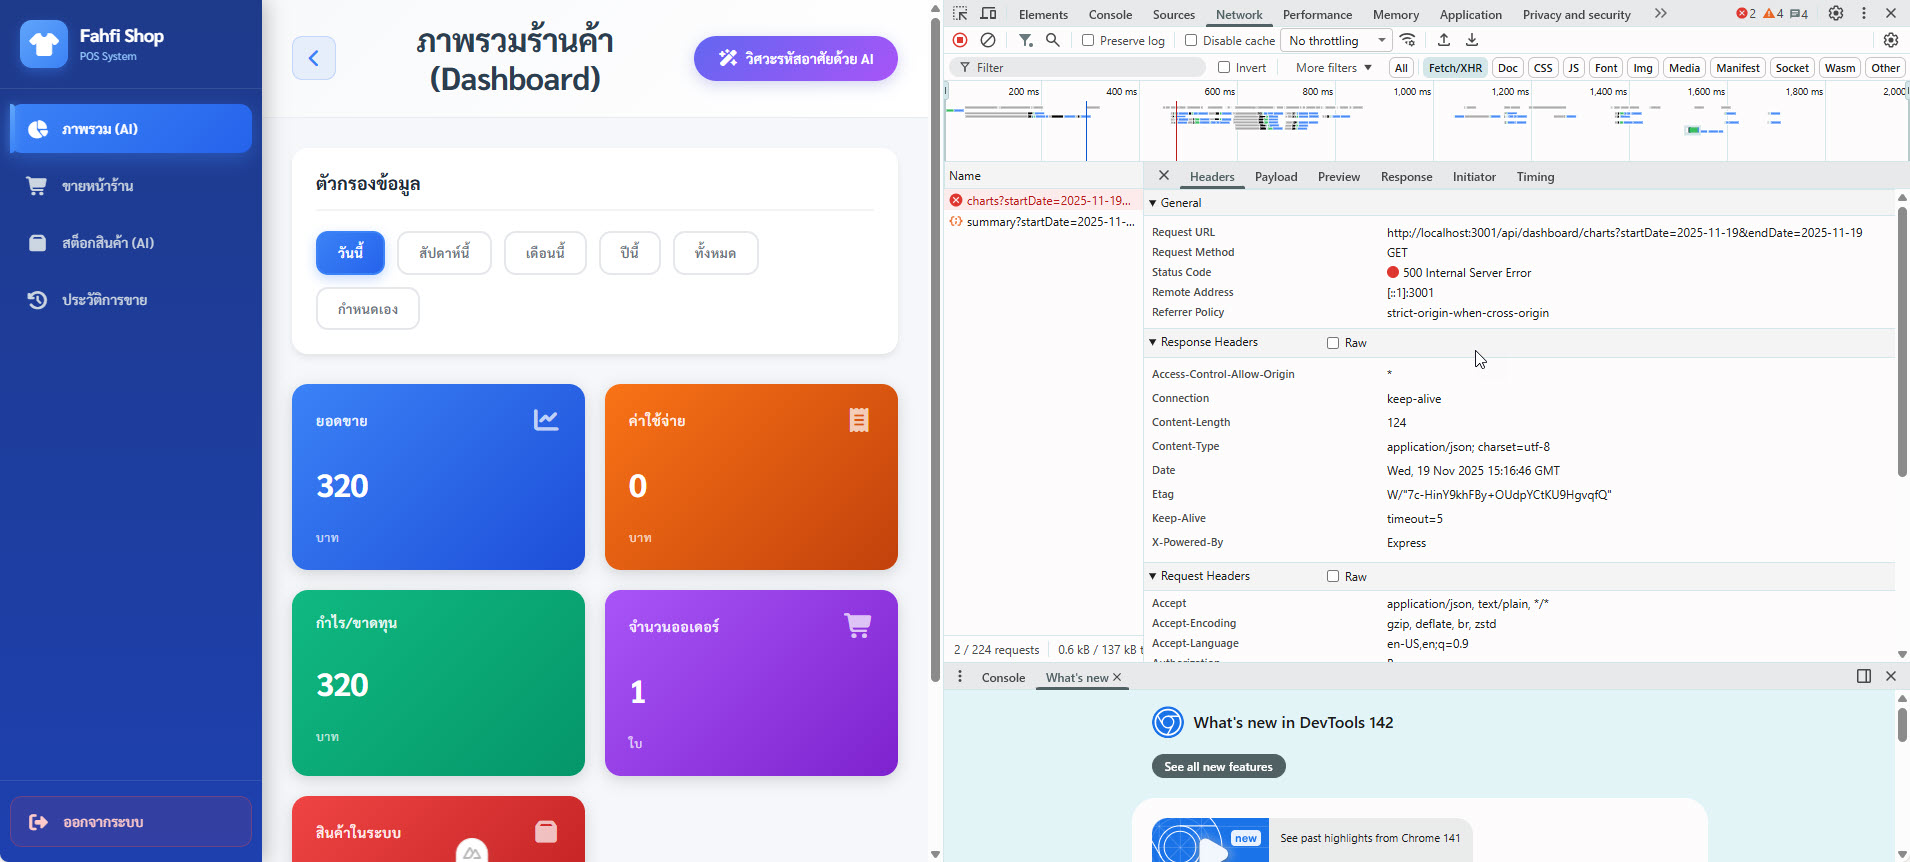
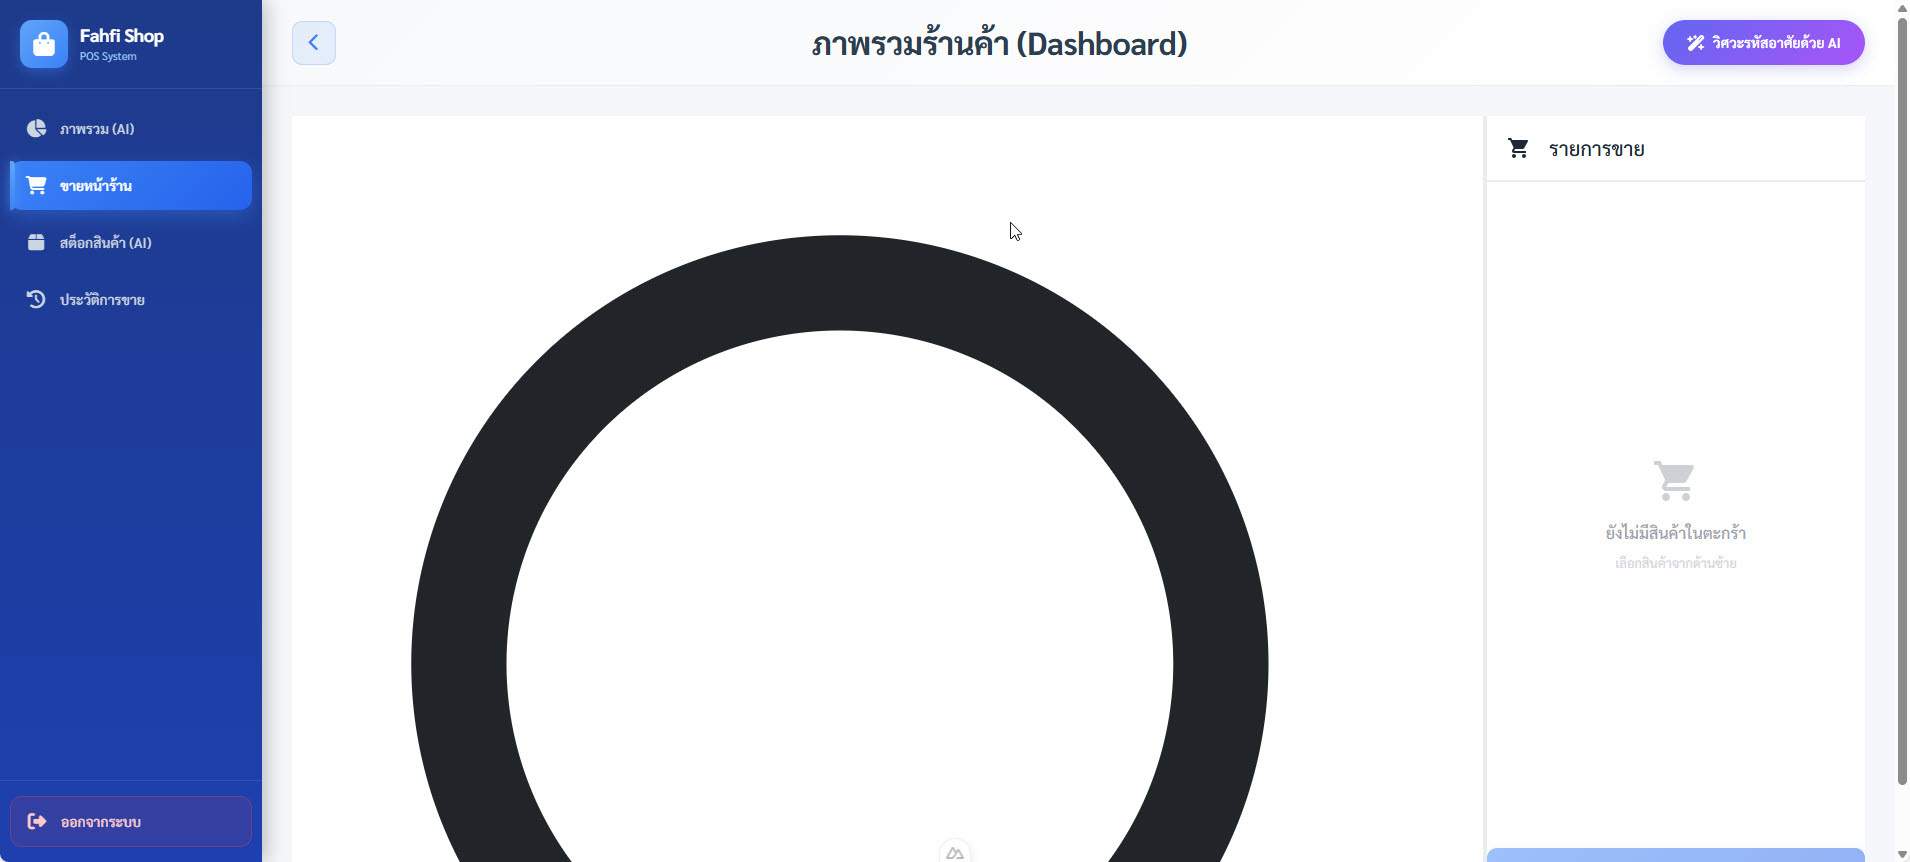
Add

diff --git a/frontend/app/components/SalesTable.vue b/frontend/app/components/SalesTable.vue
@@ -7,8 +7,11 @@
           <tr>
             <th>ลำดับ</th>
             <th>วันที่-เวลา</th>
+            <th>ชื่อสินค้า</th>
             <th>จำนวนรายการ</th>
-            <th>ยอดขาย</th>
+            <th>ส่วนลด</th>
+            <th>ยอดรวมสุทธิ</th>
+            <th>ยอดขาย (รวม)</th>
             <th>ผู้ขาย</th>
           </tr>
         </thead>
@@ -16,8 +19,17 @@
           <tr v-for="(sale, index) in sales" :key="sale.id" :class="{ 'highlight-row': index % 2 === 0 }">
             <td class="text-center">{{ index + 1 }}</td>
             <td>{{ formatDateTime(sale.sale_date) }}</td>
+            <td class="product-names">
+              <div class="product-list">{{ sale.product_names || '-' }}</div>
+            </td>
             <td class="text-center">
               <span class="badge">{{ sale.items_count }}</span>
+            </td>
+            <td class="text-end">
+              <span class="discount-amount">{{ formatNumber(sale.total_discount || 0) }}</span>
+            </td>
+            <td class="text-end">
+              <span class="net-total">{{ formatNumber(sale.net_total || 0) }}</span>
             </td>
             <td class="text-end">
               <span class="amount">{{ formatNumber(sale.total_amount) }}</span>
@@ -43,6 +55,9 @@ interface Sale {
   total_amount: number
   items_count: number
   seller_name: string
+  product_names?: string
+  total_discount?: number
+  net_total?: number
 }
 
 interface Props {
@@ -155,6 +170,29 @@ const formatNumber = (value: number) => {
 .seller-name {
   color: #6366f1;
   font-weight: 500;
+}
+
+.product-names {
+  max-width: 200px;
+}
+
+.product-list {
+  font-size: 13px;
+  color: #1f2937;
+  word-wrap: break-word;
+  white-space: normal;
+  line-height: 1.4;
+}
+
+.discount-amount {
+  color: #ef4444;
+  font-weight: 600;
+}
+
+.net-total {
+  color: #8b5cf6;
+  font-weight: 700;
+  font-size: 14px;
 }
 
 .empty-state {

diff --git a/frontend/app/pages/pos.vue b/frontend/app/pages/pos.vue
@@ -103,6 +103,7 @@ definePageMeta({
 });
 
 const token = useCookie('token');
+const { handleApiError } = useApiError();
 
 // 2. State สำหรับ "รายการสินค้า" (ฝั่งซ้าย)
 const products = ref([]);
@@ -124,6 +125,10 @@ const fetchProducts = async () => {
     // กรองเอาเฉพาะสินค้าที่ "มีสต็อก" (มากกว่า 0)
     products.value = response.data; //.filter(p => p.stock_quantity > 0); (อาจจะเก็บไว้กรองทีหลัง)
   } catch (err) {
+    // ตรวจสอบ Auth Error (403, 401)
+    const isAuthError = await handleApiError(err);
+    if (isAuthError) return;
+
     error.value = err.response ? err.response.data : err;
   } finally {
     pending.value = false;
@@ -204,8 +209,8 @@ const submitSale = async () => {
 
     // 2. ยิง API (Backend ขั้นตอนที่ 15)
     await axios.post(
-      'http://localhost:3001/api/sales', 
-      saleData, 
+      'http://localhost:3001/api/sales',
+      saleData,
       { headers: { 'Authorization': `Bearer ${token.value}` } }
     );
 
@@ -215,6 +220,10 @@ const submitSale = async () => {
     await fetchProducts(); // รีเฟรชรายการสินค้า (เพื่อให้เห็นสต็อกที่อัปเดต)
 
   } catch (err) {
+    // ตรวจสอบ Auth Error (403, 401)
+    const isAuthError = await handleApiError(err);
+    if (isAuthError) return;
+
     const message = err.response ? err.response.data.message : err.message;
     saleError.value = `เกิดข้อผิดพลาด: ${message}`;
     // (เช่น Error "สต็อกสินค้า...ไม่เพียงพอ" ที่เราทำไว้ใน Backend)

diff --git a/backend/index.js b/backend/index.js
@@ -214,7 +214,7 @@ app.post('/api/login', express.json(), async (req, res) => {
         role: user.role,
       }, // ข้อมูลที่เราอยากเก็บใน "ตั๋ว"
       process.env.JWT_SECRET, // กุญแจลับ (จากไฟล์ .env)
-      { expiresIn: "8h" } // Token นี้มีอายุ 8 ชั่วโมง
+      { expiresIn: "30d" } // Token นี้มีอายุ 30 วัน (สำหรับ Dev)
     );
 
     // 6. (สำคัญ) บันทึก Log การ Login
@@ -1533,7 +1533,7 @@ app.get("/api/dashboard/charts", authenticateToken, async (req, res) => {
         LIMIT 5`
       );
 
-    // 2. รายการขายล่าสุด 10 ลำดับ
+    // 2. รายการขายล่าสุด 10 ลำดับ (พร้อมรายละเอียดสินค้า)
     const [latest10Sales] = await db
       .promise()
       .query(
@@ -1542,9 +1542,13 @@ app.get("/api/dashboard/charts", authenticateToken, async (req, res) => {
           s.sale_date,
           s.total_amount,
           COUNT(sd.id) AS items_count,
-          u.username AS seller_name
+          u.username AS seller_name,
+          GROUP_CONCAT(p.name SEPARATOR ', ') AS product_names,
+          SUM(sd.discount_amount) AS total_discount,
+          SUM(sd.line_total) AS net_total
         FROM sales s
         LEFT JOIN sale_details sd ON s.id = sd.sale_id
+        LEFT JOIN products p ON sd.product_id = p.id
         LEFT JOIN users u ON s.created_by = u.id
         WHERE DATE(s.sale_date) ${startDate && endDate ? `BETWEEN '${startDate}' AND '${endDate}'` : '= CURDATE()'}
         GROUP BY s.id

diff --git a/frontend/app/middleware/auth.global.ts b/frontend/app/middleware/auth.global.ts
@@ -1,6 +1,7 @@
-export default defineNuxtRouteMiddleware((to) => {
+export default defineNuxtRouteMiddleware(async (to) => {
   // อ่าน Token จาก Cookie
   const token = useCookie('token');
+  const auth = useAuth();
 
   // กรณีที่ 1: ยังไม่ Login และพยายามเข้าหน้าที่ไม่ใช่ Login
   if (!token.value && to.path !== '/login') {
@@ -10,6 +11,14 @@ export default defineNuxtRouteMiddleware((to) => {
   // กรณีที่ 2: Login แล้ว แต่พยายามเข้าหน้า Login
   if (token.value && to.path === '/login') {
     return navigateTo('/');
+  }
+
+  // กรณีที่ 3: (เพิ่มใหม่) ตรวจสอบว่า Token ยังมีอยู่ใน Cookie ไหม
+  // ถ้าหายไป = เด้งไปหน้า Login
+  if (!token.value && to.path !== '/login') {
+    console.warn('⚠ Token Lost - Redirecting to login...');
+    await auth.logout();
+    return navigateTo('/login');
   }
 
   // ปล่อยผ่าน

diff --git a/frontend/app/composables/useApiError.ts b/frontend/app/composables/useApiError.ts
@@ -1,0 +1,29 @@
+// Composable สำหรับจัดการ API Error แบบรวมศูนย์
+export const useApiError = () => {
+  const auth = useAuth()
+
+  // ฟังก์ชันตรวจสอบ Error จาก API
+  const handleApiError = async (error: any) => {
+    console.error('❌ API Error:', error)
+
+    // ถ้า Status 403 = Token หมดอายุ
+    if (error.response?.status === 403) {
+      console.warn('⚠ Token Expired - Logging out...')
+      await auth.handleTokenExpired()
+      return true // ส่งกลับ true เพื่อบอกว่าเป็น 403
+    }
+
+    // ถ้า Status 401 = ไม่มี Token หรือ Unauthorized
+    if (error.response?.status === 401) {
+      console.warn('⚠ Unauthorized - Logging out...')
+      await auth.logout()
+      return true
+    }
+
+    return false // ไม่ใช่ Auth error
+  }
+
+  return {
+    handleApiError
+  }
+}

diff --git a/frontend/app/composables/useAuth.ts b/frontend/app/composables/useAuth.ts
@@ -3,6 +3,7 @@
 export const useAuth = () => {
   const token = useCookie('token');
   const userCookie = useCookie('user');
+  const router = useRouter();
 
   // (ฟังก์ชันนี้จะ Sync ข้อมูลจาก Cookie มาใส่ใน State ตอนที่เว็บโหลดครั้งแรก)
   const syncUserState = () => {
@@ -67,6 +68,12 @@ export const useAuth = () => {
     await navigateTo('/login');
   };
 
+  // 7. (เพิ่มใหม่) ฟังก์ชันตรวจสอบ Token หมดอายุ
+  const handleTokenExpired = async () => {
+    console.warn('⚠ Token Expired - Logging out...');
+    await logout();
+  };
+
   return {
     // ค่า
     isLoggedIn,
@@ -77,6 +84,7 @@ export const useAuth = () => {
     // ฟังก์ชัน
     login,
     logout,
-    syncUserState
+    syncUserState,
+    handleTokenExpired
   };
 };

diff --git a/frontend/app/pages/index.vue b/frontend/app/pages/index.vue
@@ -149,6 +149,8 @@ const chartData = ref<any>(null)
 const pending = ref(true)
 const error = ref<any>(null)
 const token = useCookie('token')
+const auth = useAuth()
+const { handleApiError } = useApiError()
 
 // Date Range State
 const selectedDateTab = ref('today')
@@ -267,7 +269,10 @@ const fetchCharts = async (start?: string | null, end?: string | null) => {
       console.log('✅ Dashboard summary data (fallback):', summaryResponse.data)
     }
   } catch (err: any) {
-    console.error('❌ Error fetching dashboard:', err)
+    // ใช้ composable จัดการ Error
+    const isAuthError = await handleApiError(err)
+    if (isAuthError) return
+
     error.value = err
   } finally {
     pending.value = false

diff --git a/CLAUDE.md b/CLAUDE.md
@@ -1,0 +1,118 @@
+# CLAUDE.md
+
+This file provides guidance to Claude Code (claude.ai/code) when working with code in this repository.
+
+## Project Overview
+
+Fahfi Shop is a full-stack point-of-sale (POS) and inventory management system with a Nuxt 4 frontend and Express.js backend. The system tracks product inventory, sales transactions, expenses, and user activities with comprehensive logging.
+
+## Tech Stack
+
+- **Frontend**: Nuxt 4 (Vue 3) with Bootstrap 5 and Chart.js
+- **Backend**: Express.js (Node.js) with MySQL2
+- **Authentication**: JWT tokens with bcryptjs password hashing
+- **File Upload**: Multer for image storage
+- **Database**: MySQL with connection pooling
+
+## Development Setup
+
+### Database
+- Initialize database from `fahfi_shop_db.sql` or `fahfi_shop_db_default.sql`
+- Database name: `fahfi_shop_db`
+- Configure connection in `backend/.env`
+
+### Backend (`backend/`)
+```bash
+npm install                # Install dependencies
+npm run dev              # Start dev server with nodemon (port 3001)
+npm start                # Start production server
+```
+
+**Environment Variables** (`.env`):
+- `DB_HOST`, `DB_USER`, `DB_PASSWORD`, `DB_DATABASE`
+- `PORT` (default: 3001)
+- `JWT_SECRET` (for token signing)
+
+### Frontend (`frontend/`)
+```bash
+npm install              # Install dependencies
+npm run dev            # Start dev server with hot-reload
+npm run build          # Build for production
+npm run generate       # Generate static site
+npm run preview        # Preview production build
+```
+
+## Architecture
+
+### Backend Structure
+
+**Authentication Flow**:
+- Register/Login endpoints create/verify users with bcrypt-hashed passwords
+- JWT tokens issued on successful login (8-hour expiration)
+- `authenticateToken` middleware validates tokens and extracts user info into `req.user`
+
+**API Endpoints**:
+- **Auth**: `POST /api/register`, `POST /api/login`
+- **Products**: CRUD operations with stock tracking (`/api/products*`)
+- **Sales**: Transaction-based with automatic stock deduction (`/api/sales*`)
+- **Expenses**: Cost tracking (`/api/expenses*`)
+- **Users**: User management (`/api/users*`)
+- **Dashboard**: Summary and chart data (`/api/dashboard/*`)
+- **Upload**: Image upload via Multer (`POST /api/upload`)
+
+**Key Patterns**:
+- **Transactions**: Sales operations use database transactions (`beginTransaction()`, `commit()`, `rollback()`) to ensure atomicity when updating stock and creating sale records
+- **Logging**: All CRUD operations log to `action_logs` table with user info and details
+- **Error Handling**: MySQL-specific error codes (e.g., `ER_DUP_ENTRY`, `ER_ROW_IS_REFERENCED_2`) are caught and handled with appropriate HTTP status codes
+- **Date Filtering**: Dashboard endpoints accept `startDate` and `endDate` query params for custom date ranges
+
+**Static Files**: Frontend accesses uploaded images via `http://localhost:3001/uploads/` (served from `public/uploads/`)
+
+### Frontend Structure
+
+**Routing**: Nuxt file-based routing in `app/pages/` (index, login, pos, sales-history, products, expenses)
+
+**Authentication**:
+- `useAuth` composable manages token and user data via cookies
+- `auth.global.ts` middleware redirects unauthenticated users to `/login`
+- Admin checks use `user.role === 'Admin'`
+
+**Components**: Reusable UI components in `app/components/` (HeaderComponent, SidebarComponent, charts, tables)
+
+**API Integration**: Direct axios calls from pages/composables (no formal API layer abstraction)
+
+## Important Behaviors
+
+1. **Stock Management**: Sales transactions automatically deduct stock; deleting sales reverses the deduction via transaction rollback
+2. **Image Upload**: Only JPEG/PNG accepted; files saved with timestamp prefix to prevent collisions
+3. **User Roles**: Currently supports "Admin" and "Staff" roles; role checks are not yet enforced on backend (commented in code)
+4. **Dashboard Dates**: Default to today; accepts custom ranges via query params
+5. **Error Messages**: Most displayed in Thai; sensitive errors logged server-side with user-friendly messages to client
+
+## Database Schema
+
+Key tables:
+- `users` (id, username, password, role, created_at)
+- `products` (id, name, category, grade, stock_quantity, cost_price, sell_price, product_image_url, last_updated_by)
+- `sales` (id, total_amount, sale_date, created_by, last_updated_by)
+- `sale_details` (id, sale_id, product_id, quantity, price_at_sale, discount_amount, line_total) - FK with ON DELETE CASCADE
+- `expenses` (id, expense_date, category, details, amount, receipt_image_url, created_by, last_updated_by)
+- `action_logs` (id, user_id, action_type, target_table, target_id, details, created_at)
+
+## Common Tasks
+
+**Adding a new API endpoint**:
+1. Add route in `backend/index.js` with `authenticateToken` middleware
+2. Include logging to `action_logs` for audit trail
+3. Handle MySQL errors appropriately
+4. Call from frontend with axios + token from `useAuth` composable
+
+**Modifying products/sales/expenses**:
+- Ensure transaction handling for stock updates
+- Always log changes to `action_logs`
+- Validate required fields before DB operations
+
+**Frontend page updates**:
+- Use `useAuth` for auth state
+- Pages are auto-protected by `auth.global.ts` middleware (except `/login`)
+- Fetch data with axios and handle loading/error states
